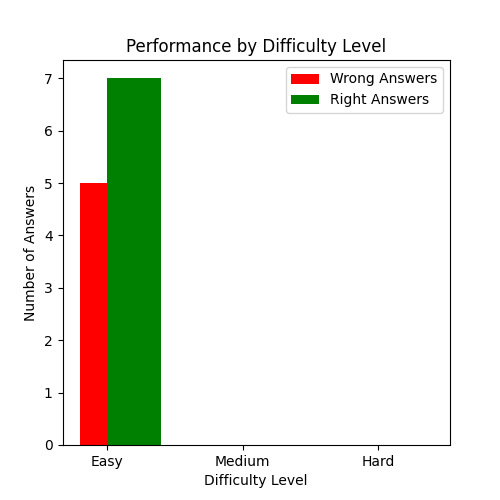
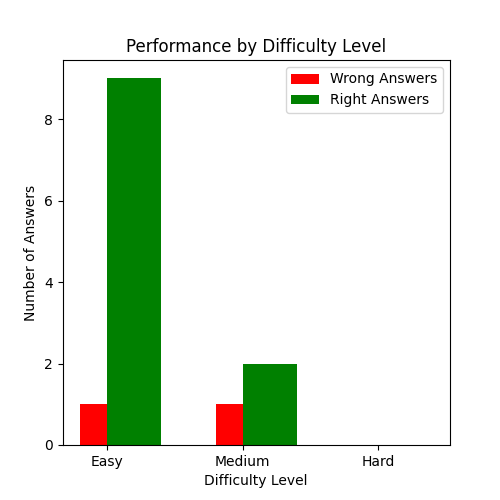
update

diff --git a/templates/question_form.html b/templates/question_form.html
@@ -1,4 +1,3 @@
-
 <!DOCTYPE html>
 <html>
 <head>
@@ -42,6 +41,12 @@
             box-sizing: border-box;
             transition: border-color 0.3s;
         }
+        .button-container {
+            display: flex;
+            justify-content: center;
+            gap: 10px;
+            margin-top: 20px;
+        }
         input[type="submit"] {
             padding: 10px;
             border-radius: 12px;
@@ -51,9 +56,7 @@
             cursor: pointer;
             font-size: 16px;
             transition: background-color 0.3s, transform 0.3s;
-            margin-left:20px;
         }
-
         input[type="submit"]:hover {
             background: #07001f;
             transform: scale(1.05);
@@ -84,12 +87,15 @@
             </select><br><br>
             <label for="tag">Tag:</label>
             <input type="text" id="tag" name="tag" required><br>
-            <br><input type="submit" value="Submit Question">
+            <div class="button-container">
+                <input type="submit" value="Submit Question">
+            </div>
+        </form>
+        <div class="button-container">
             <form action="{{ url_for('finish') }}" method="post">
                 <input type="submit" value="Finish">
             </form>
-        </form><br>
+        </div>
     </div>
-    
 </body>
 </html>

diff --git a/indexnew.py b/indexnew.py
@@ -12,7 +12,7 @@ app = Flask(__name__)
 # Configuration for MySQL database
 app.config['MYSQL_HOST'] = '127.0.0.1'
 app.config['MYSQL_USER'] = 'root'
-app.config['MYSQL_PASSWORD'] = 'Tarun9392440350'
+app.config['MYSQL_PASSWORD'] = '******'
 app.config['MYSQL_DB'] = 'online_assesment'
 
 
